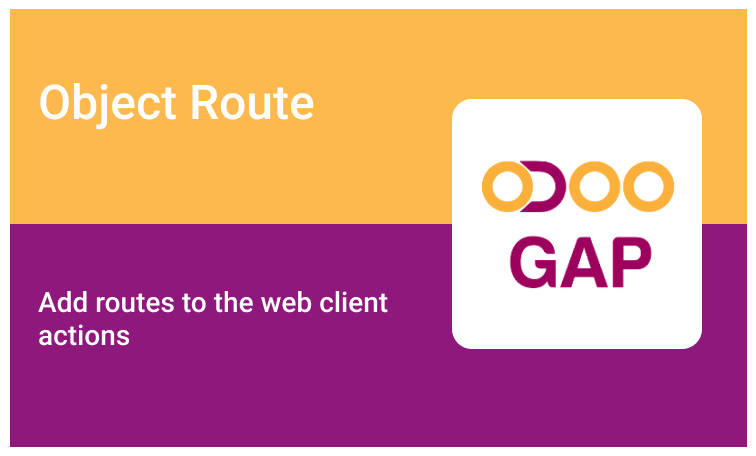
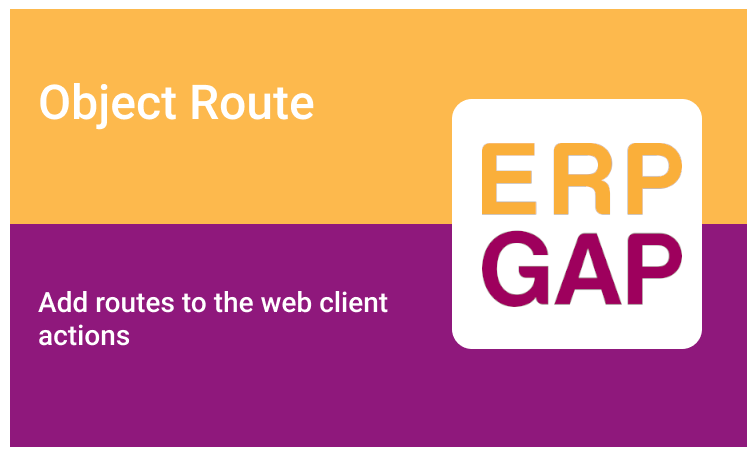
[FIX] change branding to ERPGAP

Changed region(s): [[0.6389, 0.307, 0.9127, 0.6754]]

diff --git a/object_route/static/description/index.html b/object_route/static/description/index.html
@@ -90,7 +90,7 @@
                             <p>
                             <ul>
                                 <li>To report a problem please <a
-                                        href="https://www.odoogap.com/page/contactus/">
+                                        href="https://www.erpgap.com/page/contactus/">
                                     contact us</a>.
                                 </li>
                             </ul>
@@ -100,8 +100,8 @@
                             <p>
                             <ul>
                                 <li>Commercial support is available, please email <a
-                                        href="info@odoogap.com">
-                                    info@odoogap.com</a> or call <a
+                                        href="info@erpgap.com">
+                                    info@erpgap.com</a> or call <a
                                         href="tel:+44 7480 538242">+44 7480 538242</a> for
                                     further information.
                                 </li>
@@ -110,7 +110,7 @@
                         </div>
                         <div class="col-sm-6 offset-sm-6">
                             <p class="logo-wrapper text-right">
-                                <a href="//odoogap.com ">
+                                <a href="https://www.erpgap.com ">
                                     <img class='img-fluid' itemprop="image"
                                          class="deep-1 footer-image "
                                          style="height: 45px;box-shadow: 0 0 0 0 transparent;"

diff --git a/object_route/__manifest__.py b/object_route/__manifest__.py
@@ -4,13 +4,13 @@
     'summary': """Odoo Object Direct Routes""",
     'description': """Allows you to use direct object routes.""",
     'category': 'Uncategorized',
-    'author': "Odoogap",
+    'author': "ERPGAP",
     'licence': 'LGPL-3',
-    'website': "https://www.odoogap.com",
+    'website': "https://www.erpgap.com",
     'images': ['images/main_screenshot.png'],
     'depends': ['base', 'crm', 'sale_management', 'contacts', 'account'],
     'data': ['views/actions_views.xml'],
     'installable': True,
     'auto_install': False,
-    'support': 'info@odoogap.com'
+    'support': 'info@erpgap.com'
 }

diff --git a/object_route/README.md b/object_route/README.md
@@ -35,7 +35,7 @@ See it in action: [here](https://twitter.com/diogormcduarte/status/1098703437611
 
 ## Support
 
-To report a problem please [contact us](https://www.odoogap.com/page/contactus/).
+To report a problem please [contact us](https://www.erpgap.com/page/contactus/).
 
-Commercial support is available, please email [info@odoogap.com](info@odoogap.com)
+Commercial support is available, please email [info@erpgap.com](info@erpgap.com)
 or call tel:+44 7480 538242 for further information.
